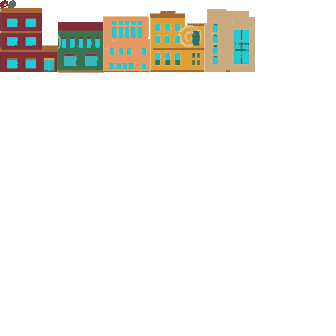
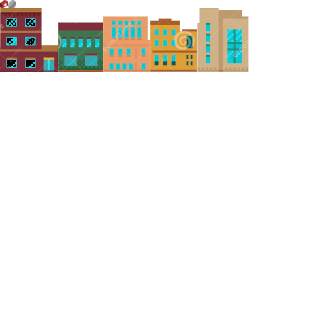
Retornado para versão anterior

Changed region(s): [[0.0, 0.0, 0.7738, 0.2381]]

diff --git a/buiding.py b/buiding.py
@@ -48,17 +48,16 @@ class Building_4(Buildind_1):
         super().__init__(pyxel, tile_map, player, x_init)
         self.tile_pos_x = 150
         self.tile_pos_y = 8
-        self.w = 54
+        self.w = 47
         self.h = 64
 
 class Building_5(Buildind_1):
     def __init__(self, pyxel, tile_map, player, x_init):
         super().__init__(pyxel, tile_map, player, x_init)
-        self.tile_pos_x = 204
+        self.tile_pos_x = 197
         self.tile_pos_y = 8
-        self.w = 51
+        self.w = 52
         self.h = 64
-
 
 
 class Building:

diff --git a/main.py b/main.py
@@ -12,10 +12,10 @@ tile_player = 'tile_player.png'
 tile_objects = "tile_objects.png"
 
 pyxel.init(game_witht, game_height, "Leo Broklin", 30)
-set_palette(palette, tile_objects)
-set_palette(palette, tile_player)
+#set_palette(palette, tile_objects)
+#set_palette(palette, tile_player)
 
-pyxel.colors.from_list(palette)
+#pyxel.colors.from_list(palette)
 
 tile_map_player = pyxel.image(0)
 tile_map_player.load(0, 0, tile_player)
